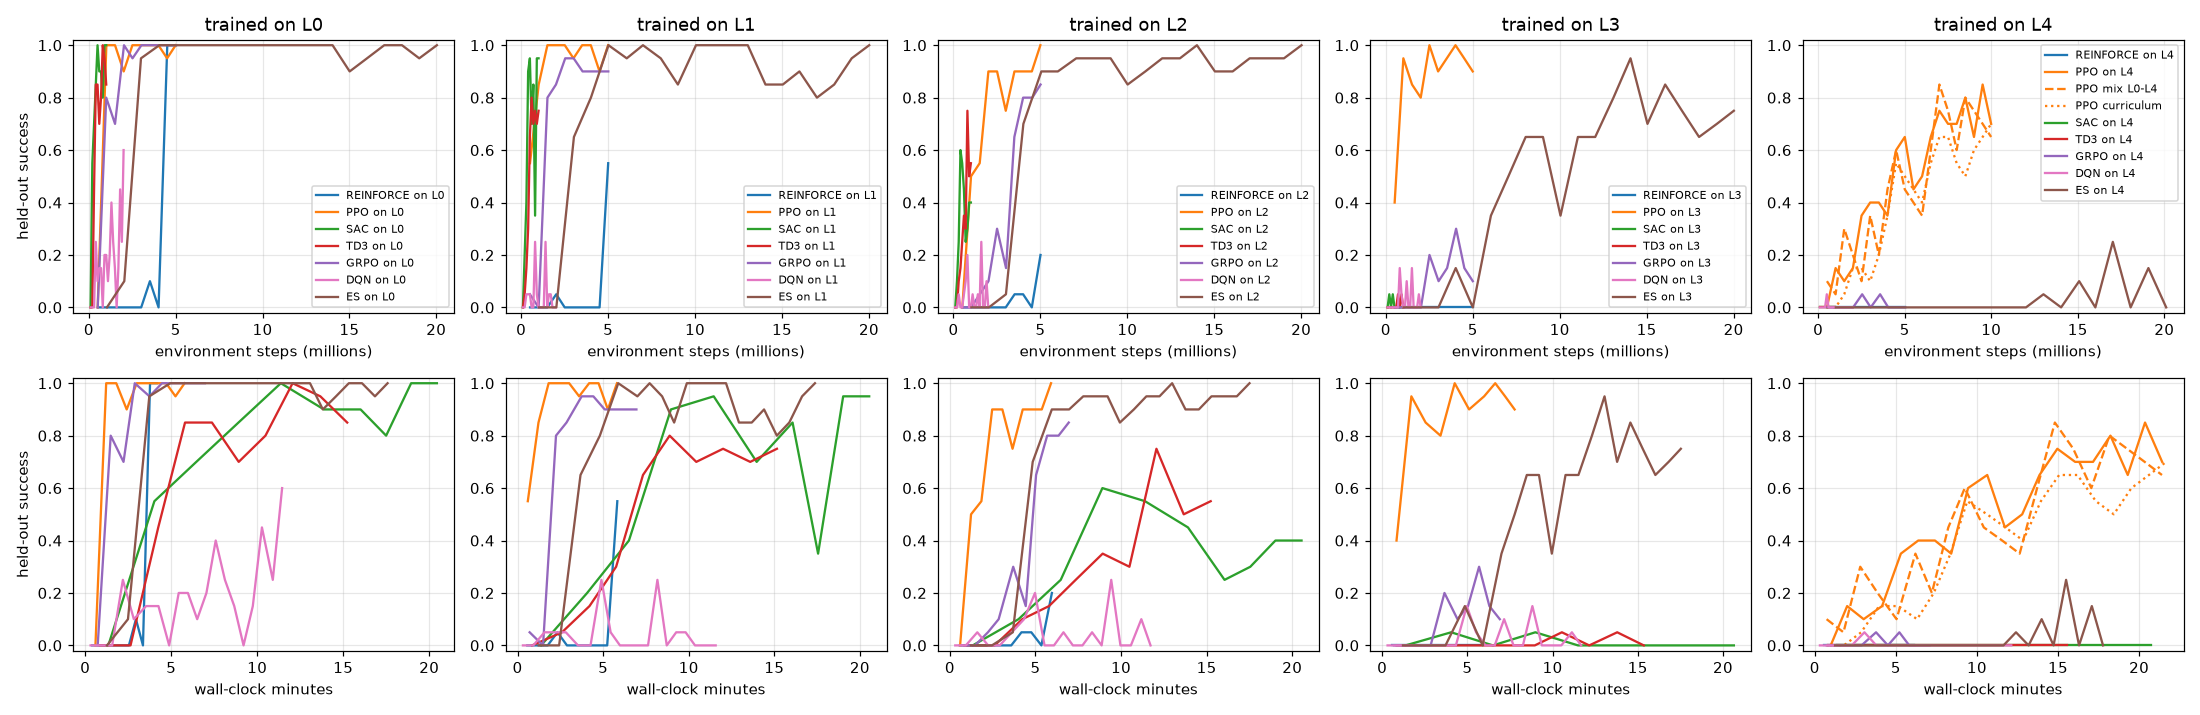
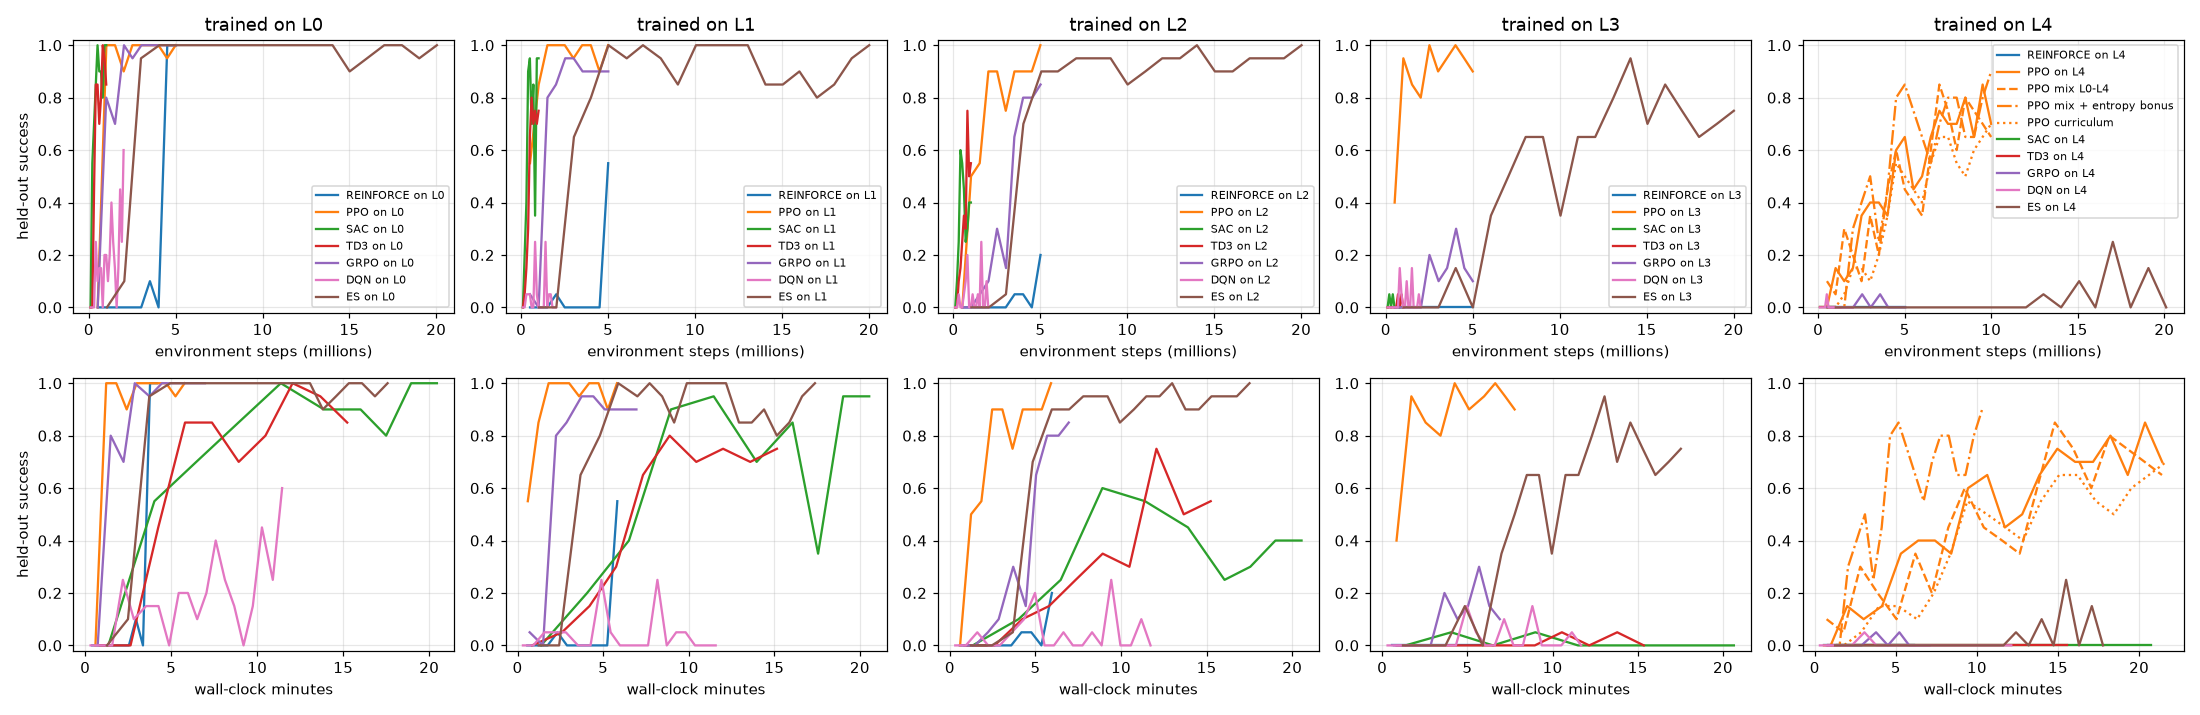
Add the entropy-bonus mix recipe and report the memory experiments

Changed region(s): [[0.8964, 0.0615, 0.9891, 0.3077], [0.8655, 0.6154, 0.8964, 0.6769], [0.8345, 0.7385, 0.8655, 0.8]]

diff --git a/src/rocketlander/report.py b/src/rocketlander/report.py
@@ -36,9 +36,9 @@ ALGO_COLORS = {
 
 
 def line_style(agent: str) -> dict:
-    """One colour per algorithm (from the checkpoint name); mixes dashed, curricula dotted."""
+    """One colour per algorithm (from the checkpoint name); level mixes and curricula dashed."""
     algo, _, variant = Path(agent).stem.partition("_")
-    dashes = {"mix": "--", "curriculum": ":"}.get(variant, "-")
+    dashes = {"mix": "--", "curriculum": ":", "mix_entropy": "-."}.get(variant, "-")
     return {"color": ALGO_COLORS.get(algo, "tab:gray"), "linestyle": dashes}
 
 

diff --git a/tests/test_report.py b/tests/test_report.py
@@ -69,6 +69,7 @@ def test_line_style_colours_by_algorithm_and_dashes_level_mixes():
     assert line_style("checkpoints/ppo_L2.pt") == {"color": "tab:orange", "linestyle": "-"}
     assert line_style("checkpoints/ppo_mix.pt")["linestyle"] == "--"
     assert line_style("checkpoints/ppo_curriculum.pt")["linestyle"] == ":"
+    assert line_style("checkpoints/ppo_mix_entropy.pt")["linestyle"] == "-."
     assert line_style("pid")["color"] == "tab:gray"
     assert line_style("checkpoints/dqn_L0.pt")["color"] == "tab:pink"
 

diff --git a/README.md b/README.md
@@ -6,7 +6,7 @@ on a laptop CPU, and compared against a hand-written PID controller.
 
 ![A PPO agent landing on the rolling drone ship (level L2)](media/ppo_landing_L2.gif)
 
-Status: **complete (Phase 8)**: environment, viewer, baselines, seven learning agents
+Status: **complete (Phase 9)**: environment, viewer, baselines, seven learning agents
 (REINFORCE, PPO, SAC, TD3, GRPO, evolution strategies, DQN) and a model-predictive planner, training
 on level mixes and curricula, an
 evaluation suite with confidence intervals and robustness sweeps, a side-by-side comparison viewer,
@@ -28,7 +28,8 @@ Success rate on 100 held-out start states per level (seeds 10000–10099, never 
 | PPO, trained on L2 | 46% | 85% | 94% | 55% | 10% |
 | **PPO, trained on L3** | **100%** | **99%** | **99%** | **95%** | 10% |
 | PPO, trained on L4 (10 M steps) | 0% | 0% | 0% | 8% | 57% |
-| **PPO, mix of L0–L4 (10 M steps)** | **100%** | **100%** | **96%** | 60% | 53% |
+| PPO, mix of L0–L4 (10 M steps) | 100% | 100% | 96% | 60% | 53% |
+| **PPO, mix of L0–L4 + entropy bonus (10 M steps)** | **100%** | **95%** | **91%** | **62%** | **76%** |
 | PPO, curriculum L0 → L4 (10 M steps) | 100% | 100% | 100% | 70% | 65% |
 | REINFORCE, trained on L0 | 100% | 87% | 0% | 0% | 0% |
 | REINFORCE, trained on L1 | 90% | 50% | 0% | 0% | 0% |
@@ -132,12 +133,25 @@ middle half of the runs) with a bootstrap 95% interval:
 |---|---|---|---|---|---|---|---|
 | L4 only | 3 | 1% | 17% | 15% | 13% | 57, 44, 69% | 57% (44–69) |
 | curriculum L0 → L4 | 5 | 100% | 100% | 98% | 62% | 65, 9, 74, 42, 69% | 59% (20–72) |
-| mix of L0–L4 | 4 | 100% | 100% | 94% | 62% | 53, 72, 75, 68% | **70% (53–75)** |
+| mix of L0–L4 | 4 | 100% | 100% | 94% | 62% | 53, 72, 75, 68% | 70% (53–75) |
+| mix + entropy bonus 0.003 | 4 | 100% | 98% | 96% | 72% | 76, 85, 71, 76% | **76% (71–85)** |
 
 On L4 alone the intervals overlap, so these recipes cannot be ranked there with this many seeds.
 The mix is clearly better overall: every one of its runs lands at least 53% on every level, while
 the L4-only runs forget the easy levels and one curriculum run stalled. The shipped checkpoints
 are the seed-1 runs, so no lucky seed was picked.
+
+**Memory did not help; exploration did.** L4 randomizes mass, thrust, engine lag and wind, none of
+which the policy observes, so a short memory looked like the fix: `--set history=4` feeds PPO its
+last 4 observations and actions, from which those hidden values could be inferred. It made things
+worse. Over three seeds each, the mix with a 4- or 8-step history landed 1–13% on L4 and 4–12% on
+L3, and history on L4 alone reached 3%. On L0 it learned *faster* (90% after 0.5 M steps against
+0%), but its exploration noise collapsed early and the hard levels were never learned. What did help
+was the opposite: keep exploring. A small entropy bonus (`--set ent_coef=0.003`) without memory
+raised the IQM over four seeds from 62% to 72% on L3 and from 70% to 76% on L4, and the worst seed
+on L4 from 53% to 71% (the intervals still overlap). Ten times more bonus (0.01) landed 78–91% on
+L3–L4 but forgot the gentle levels (0–70% on L0). With the same 0.003 bonus, memory still lagged (L4
+4–22%).
 
 **Robustness.** `rl-robust` pins one physical parameter to values beyond what the agent trained on
 and measures success again. On L2 (which has no wind and nominal physics), 50 episodes per value:
@@ -168,6 +182,7 @@ uv run rl-train --algo dqn --level L0 --seed 1          # discrete actions, ~12 
 uv run rl-eval --agent mpc --level L0 --episodes 20     # a planner: nothing to train
 uv run rl-train --algo ppo --level mix:L0,L1,L2,L3,L4 --total-steps 10000000
 uv run rl-train --algo ppo --level curriculum:L0,L1,L2,L3,L4 --total-steps 10000000
+uv run rl-train --algo ppo --level mix:L0,L1,L2,L3,L4 --total-steps 10000000 --set ent_coef=0.003
 uv run rl-eval --agent runs/ppo_L2_s1/model.pt --level L2
 uv run rl-eval --agent runs/ppo_mix_L0L1L2L3L4_s*/model.pt --level L4  # seeds of one recipe: IQM
 uv run rl-robust --agent checkpoints/ppo_L3.pt --level L2 --param wind_mean
@@ -181,7 +196,8 @@ episodes, keep sampling the unlocked ones); both evaluate on the last level list
 REINFORCE, SAC and TD3 support them. GRPO and ES train on one level. Robustness sweep values live
 in `src/rocketlander/configs/robustness.yaml`.
 
-Hyperparameters live in `src/rocketlander/configs/algos/<algo>.yaml`. `rl-train`
+Hyperparameters live in `src/rocketlander/configs/algos/<algo>.yaml`; `--set KEY=VALUE`
+overrides any of them for one run (e.g. `--set ent_coef=0.003 --set history=4`). `rl-train`
 logs to TensorBoard and `runs/<name>/metrics.csv`, evaluates on held-out seeds during training,
 and saves a checkpoint with its config and git commit.
 

diff --git a/RESULTS.md b/RESULTS.md
@@ -20,7 +20,8 @@ Generated by `uv run rl-compare --report results.yaml`; edit that file to change
 | PPO on L3 | **100% (96–100)** | 99% (95–100) | 99% (95–100) | **95% (89–98)** | 10% (6–17) |
 | PPO on L4 | 0% (0–4) | 0% (0–4) | 0% (0–4) | 8% (4–15) | 57% (47–66) |
 | PPO mix L0-L4 | **100% (96–100)** | **100% (96–100)** | 96% (90–98) | 60% (50–69) | 53% (43–62) |
-| PPO curriculum | **100% (96–100)** | **100% (96–100)** | **100% (96–100)** | 70% (60–78) | **65% (55–74)** |
+| PPO mix + entropy bonus | **100% (96–100)** | 95% (89–98) | 91% (84–95) | 62% (52–71) | **76% (67–83)** |
+| PPO curriculum | **100% (96–100)** | **100% (96–100)** | **100% (96–100)** | 70% (60–78) | 65% (55–74) |
 | SAC on L0 | 98% (93–99) | 61% (51–70) | 0% (0–4) | 0% (0–4) | 0% (0–4) |
 | SAC on L1 | 99% (95–100) | 87% (79–92) | 0% (0–4) | 0% (0–4) | 0% (0–4) |
 | SAC on L2 | 75% (66–82) | 46% (37–56) | 33% (25–43) | 23% (16–32) | 1% (0–5) |
